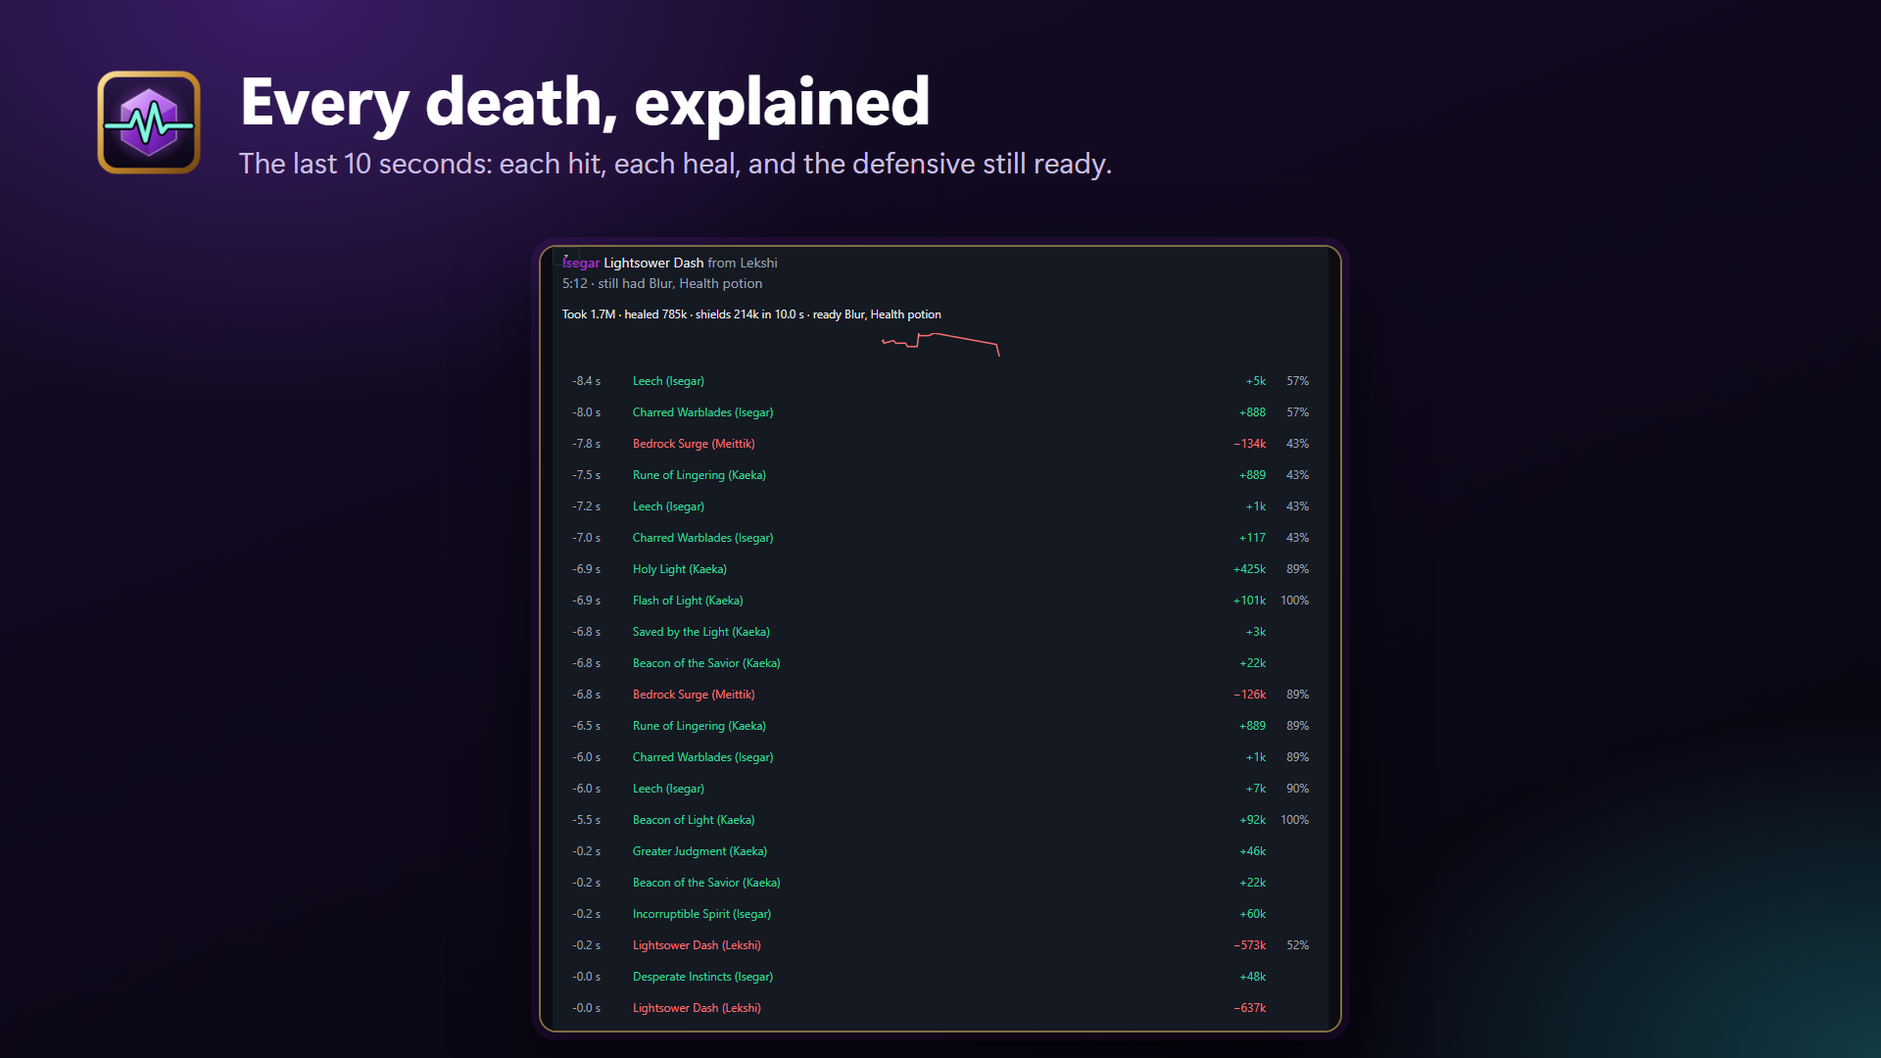
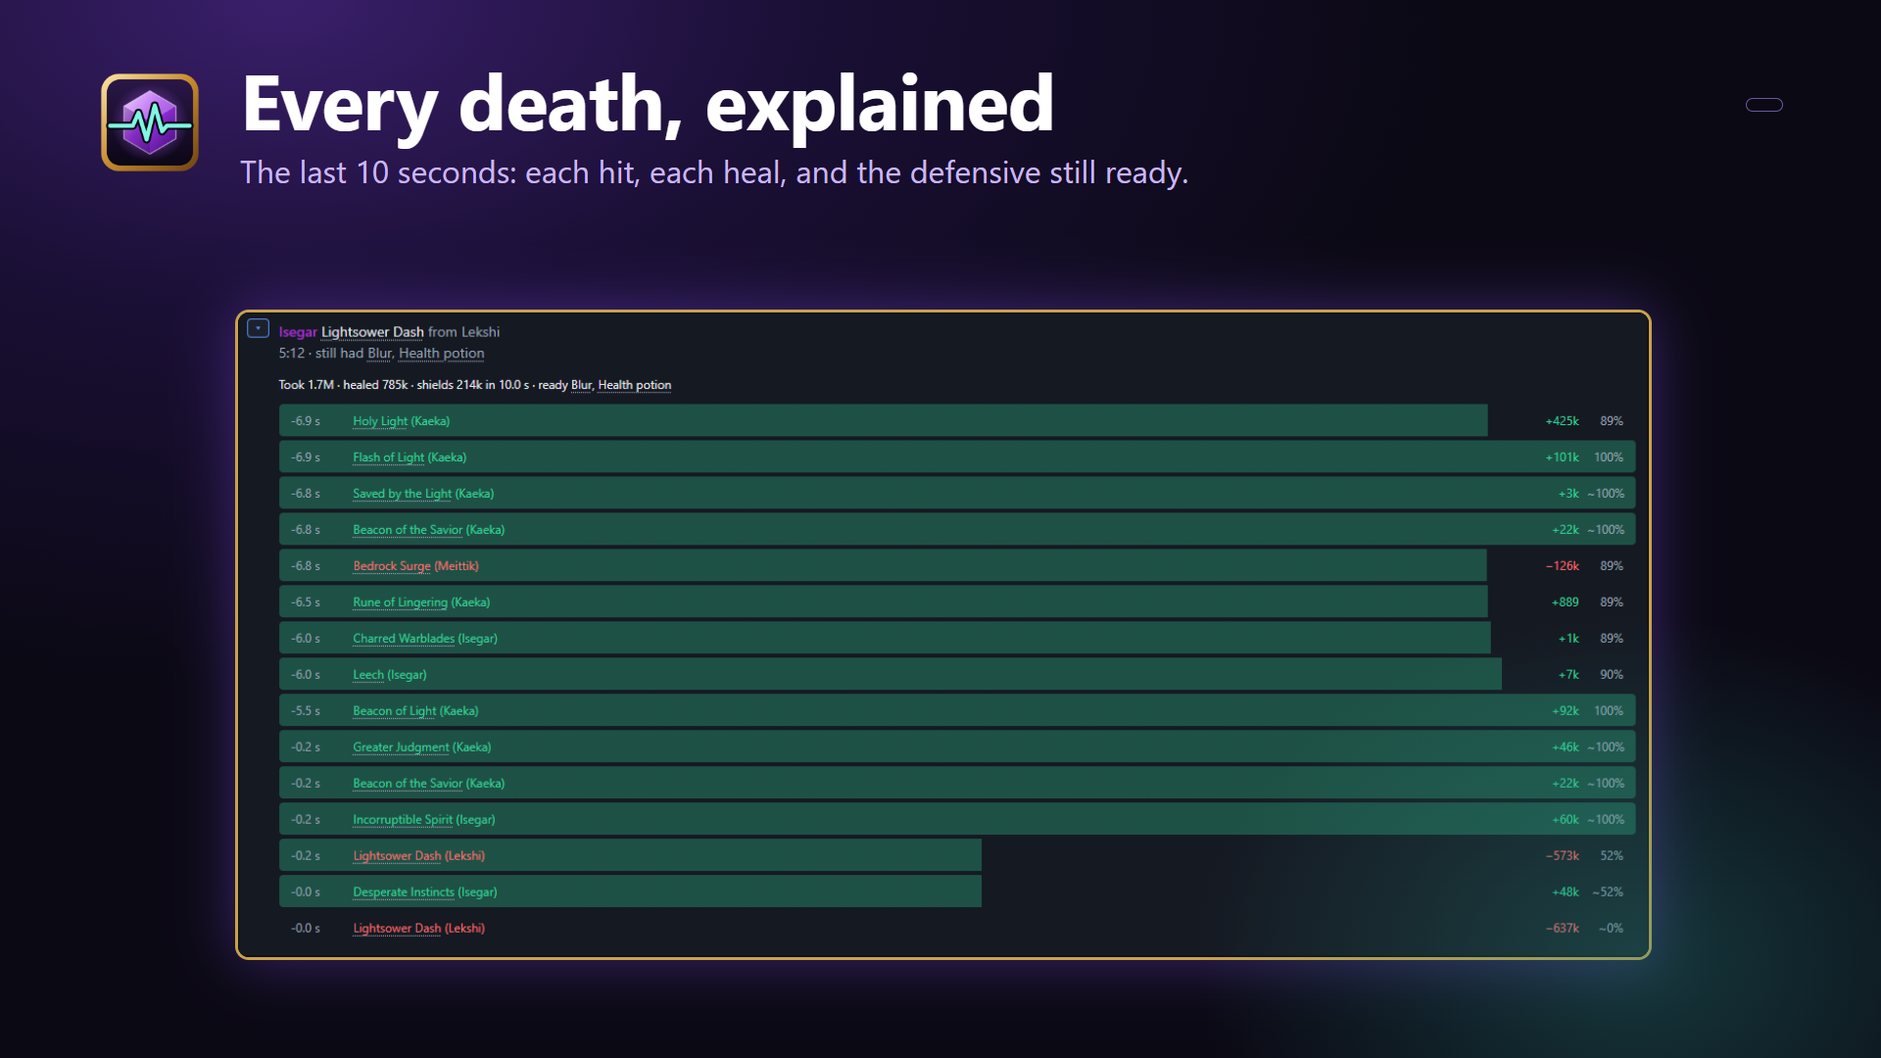
Rewrite the Store listing, add a Compare screenshot and video scripts
The listing was long and stale (0.4.7). It now leads with death recaps and the
comparison with top runs. The privacy policy missed wow.zamimg.com and
api.github.com, and the README claimed the page credits its data sources while
the app showed none, so Home now carries the credits.

diff --git a/frontend/src/Home.tsx b/frontend/src/Home.tsx
@@ -55,6 +55,11 @@ export function Home({
         <QuickLinks character={character} {...actions} />
         <AtAGlance character={character} />
         <StoragePanel view={view} onSaved={onSaved} />
+        <p className="muted small">
+          World of Warcraft is a trademark of Blizzard Entertainment; WoW Live isn&apos;t affiliated with Blizzard. Maps
+          and patrols: Keystone.guru. Routes and enemies: Mythic Dungeon Tools. Raid maps and top runs: Warcraft Logs.
+          Timers: Raider.IO. Spell text and icons: Wowhead.
+        </p>
       </div>
     </>
   )

diff --git a/docs/store-listing.md b/docs/store-listing.md
@@ -1,85 +1,82 @@
 # Microsoft Store listing
 
 The text and images for the Store page (Partner Center > WoW Live > Store listings > English). This file is the one
-source of truth for them: change it here, then paste into Partner Center with the next submission. Matches 0.4.7.
+source of truth for them: change it here, then paste into Partner Center with the next submission. The video scripts
+are in [video-script.md](video-script.md).
 
 Rules for the copy: lead with what the player gets, not how it works; say "M+" and "raid" in the first two lines
-(that's all the page shows before *Read more*); no Blizzard logos, art or class icons; no claim the app doesn't make.
+(that's all the page shows before *Read more*); one idea a line, no feature the page can't show in a screenshot; no
+claim the app doesn't make; no Blizzard logos, art or class icons in the listing's own images.
 
 ## Short description (top of the page)
 
-Know why your key depleted. WoW Live times your Mythic+ keys and raid pulls live from the combat log, then shows
-every death, every missed kick and what to fix before the next pull. Free, no addon, nothing uploaded.
+Know why your key depleted. WoW Live reads your combat log live: the M+ timer, every death explained and how you
+compare with the top runs, then what to fix before the next pull. Free, no addon, your log stays on your PC.
 
 ## Description
 
 Know why your key depleted, and why the raid wiped.
 
-WoW Live reads World of Warcraft's combat log as you play and turns it into answers: a live M+ timer and forces
-overlay, every death with what killed the player and the defensive they didn't press, and a short "fix next pull"
-list after every key and every raid pull. No addon to install, nothing to upload, no waiting for a log to process.
+WoW Live reads World of Warcraft's combat log while you play and tells you what happened: a live M+ timer, every
+death explained, and a short "fix next pull" list after every key and raid pull. No addon, no upload, no waiting for
+a log to process.
 
-MYTHIC+, LIVE
-• The clock against the timer with the +2 and +3 marks, death penalty included, and enemy forces.
-• The result you're heading for, with the odds of each, from your own runs and the top runs on Warcraft Logs.
-• The must-stop casts that went off, deaths, interrupts, dispels and DPS / HPS for the last pull and the whole key.
-• An overlay over the game that fits its window: the two cards and the columns you pick. Click a player for their
-  top spells and damage into each enemy, or let clicks through to the game with Ctrl+Alt+K.
+DURING THE KEY
+• The clock against the +2 and +3 marks and enemy forces, with the result you're heading for and the odds of each.
+• Must-stop casts that went off, deaths, interrupts, dispels and DPS / HPS for the last pull and the whole key.
+• An overlay right over the game. Press Ctrl+Alt+K to let clicks through to it.
 
 AFTER EVERY KEY
-• Each player against their spec's top runs on Warcraft Logs: DPS, kicks, deaths with a defensive ready, potions at
-  Bloodlust, with up to four things to work on and one done well.
-• Every death and big hit, recapped: the last 10 seconds of health, each hit and who cast it, the heals and shields
-  received and the buttons pressed.
-• Damage spikes that name what hit the party, and a "Fix next key" list: late priority targets, missed kicks,
-  Bloodlusts and deaths that cost the timer.
-• A replay on the dungeon's map with a timeline of pulls, deaths, Bloodlust and cooldowns, synced to the meters.
-• A full review page with a tab per player, deaths, events and a comparison against the top logs.
-• Routes: import a Mythic Dungeon Tools route, edit it with mob health at your key level, draw lines, markers and
-  notes on the map, follow it live and see which pulls you skipped.
+• Death recaps: the last 10 seconds before each death, with every hit, heal and shield, and the defensive that was
+  still ready.
+• See how you compare: each player against the top runs of their spec on Warcraft Logs (DPS, kicks, deaths, potions,
+  buffs, talents), with up to four things to work on.
+• A "Fix next key" list and a timeline of every pull, death, Bloodlust and cooldown.
+• A replay on the dungeon's map, synced to the meters.
+• Routes: import a Mythic Dungeon Tools route and see which pulls you skipped.
 
 RAID
-• After each pull: how far it got, the early deaths and why, and what went wrong by mechanic (soaks, tethers, adds,
-  dispels, avoidable hits), with a short list of what to fix on the next pull.
-• A replay of the pull on the room's map, raid cooldowns and potions, missing flasks, food and Vantus Runes.
+• After each pull: how far it got, the early deaths and why, and what failed by mechanic (soaks, tethers, adds,
+  dispels, avoidable hits), with what to fix next pull.
+• A replay on the room's map, plus missing flasks, food and Vantus Runes.
 
 YOUR SEASON
-• A Recap for each of your characters, Mythic+ and Raid apart: keys timed, highest key, your fastest and closest
-  runs, the ability that kills you most, who you ran with, your times against the top runs and your Warcraft Logs
-  parses.
-• Read your old combat logs, or import keys and raid pulls from Warcraft Logs, and they're all saved.
+• A Recap per character: keys timed, your fastest and closest runs, the ability that kills you most, who you ran
+  with and your Warcraft Logs parses. Read your old logs or import from Warcraft Logs.
 
-PRIVATE AND SAFE
+PRIVATE
 It isn't an addon and doesn't touch the game: it only reads the log file the game writes on your PC. No account, no
-ads, no tracking, and your combat log never leaves your PC.
+ads, no tracking. Your combat log never leaves your PC; only a character name you ask it to look up goes to Warcraft
+Logs.
 
-GET STARTED IN A MINUTE
+START IN A MINUTE
 1. In the game, turn on Advanced Combat Logging (Options > System > Network).
 2. Type /combatlog before the key or the pull.
 3. Play in Windowed or Windowed (Fullscreen) so the overlay shows over the game.
 Optional: add a free Warcraft Logs API client in Settings for the comparison with top runs.
 
-WoW Live is free. Questions and bugs: github.com/steezy2/wow-live-app
+WoW Live is free. Its source is public for noncommercial use (PolyForm Noncommercial 1.0.0). Questions and bugs:
+github.com/steezy2/wow-live-app
 
-World of Warcraft is a trademark of Blizzard Entertainment. WoW Live isn't affiliated with or endorsed by Blizzard.
-Dungeon maps are Keystone.guru's and raid maps Warcraft Logs'.
+World of Warcraft is a trademark of Blizzard Entertainment. WoW Live isn't affiliated with or endorsed by Blizzard,
+and the game's spell names, text and icons belong to Blizzard. Dungeon maps and patrols are Keystone.guru's, routes
+and enemies Mythic Dungeon Tools', raid maps and top runs Warcraft Logs', season timers Raider.IO's and spell text
+and icons Wowhead's.
 
 ## Product features (up to 20, shown as a list)
 
-1. Live Mythic+ timer with +2 and +3 marks and enemy forces
-2. Overlay over the game that fits its window, with the cards and columns you pick
-3. Every death and big hit recapped: the last 10 seconds of hits, heals and buttons pressed
-4. Must-stop casts that went off, interrupts, dispels and crowd control
-5. DPS, HPS and avoidable damage for the last pull and the whole key
-6. Review of each player against the top runs of their spec on Warcraft Logs
-7. A "fix next pull" list after every key and raid pull
-8. Damage spikes that name the abilities and enemies behind them
-9. Replay on the dungeon's map with a timeline of pulls, deaths and cooldowns
-10. Raid pulls: how far it got, early deaths and mechanics failed, by raider
-11. A Recap of your season per character, Mythic+ and Raid apart, with your parses
-12. Reads old combat logs and imports from Warcraft Logs
-13. Routes: import a Mythic Dungeon Tools route, edit and draw on it, follow it live and compare it with the key
-14. No addon, no upload of your combat log
+1. Live Mythic+ timer with +2 and +3 marks, enemy forces and the odds of each result
+2. Overlay over the game that fits its window
+3. Every death recapped: the last 10 seconds of hits, heals and the defensive still ready
+4. See how you compare: each player against the top runs of their spec on Warcraft Logs
+5. A "fix next pull" list after every key and raid pull
+6. Must-stop casts that went off, interrupts, dispels and avoidable damage
+7. Replay on the dungeon's map with a timeline of pulls, deaths and cooldowns
+8. Raid pulls: how far it got, early deaths and mechanics failed
+9. Season Recap per character, with your parses
+10. Routes: import a Mythic Dungeon Tools route and follow it live
+11. Reads old combat logs and imports from Warcraft Logs
+12. No addon, no account, your combat log never leaves your PC
 
 ## Search terms (up to 7)
 
@@ -94,19 +91,39 @@ the search terms and the first two lines matter more than the category.
 
 `docs/store/` holds what Partner Center takes, made from real screens of real keys and pulls with made-up names,
 each under a one-line headline baked into the image (gamers skim the images, not the text). The first three show on
-the page, so the order is what sells.
+the page, so the order is what sells: the live key (the hook), a death explained (the pain) and the comparison (the
+payoff). Each screen shows one thing, large; crop to it rather than showing a whole page.
 
-| File | Headline | Screen |
-|---|---|---|
-| `1-live.png` | Your Mythic+ key, live | The live page mid-key with the overlay over it |
-| `2-key.png` | Know why your key depleted | A key's Fix next key list and Timeline |
-| `3-raid.png` | Fix the wipe before the next pull | A raid pull's Fix next pull, early deaths and mechanics |
-| `4-death.png` | Every death, explained | A death recap's last 10 seconds |
-| `5-replay.png` | Replay the key on the map | The map replay |
-| `6-recap.png` | Your whole season | The Recap's Mythic+ tab |
+| # | File | Headline | Screen | Status |
+|---|---|---|---|---|
+| 1 | `1-live.png` | Your Mythic+ key, live | Live page mid-key with the overlay over it | Made |
+| 2 | `4-death.png` | Every death, explained | A death recap: the health graph large over the hits and heals, the ready defensive named | Made (the last 10 seconds, health falling to 0%) |
+| 3 | `compare.png` | See how you stack up | Compare tab: verdict, the "work on" list, key stats and abilities against the top logs | Made, sample data |
+| 4 | `2-key.png` | Know why your key depleted | Fix next key and Timeline | Made |
+| 5 | `3-raid.png` | Fix the wipe before the next pull | A raid pull's Fix next pull and early deaths | Made |
+| 6 | `5-replay.png` | Replay the key on the map | The map replay | Made |
+| 7 | `6-recap.png` | Your whole season | The Recap's Mythic+ tab | Made |
+
+The comparison screenshot uses sample numbers, not a real review (the owner's choice); the names are made up too, and
+the image carries a small "sample data" mark. Keep it to the values a real review shows. The talent tree shows
+Blizzard's icons, so the Store image leaves the tree out.
 
 Also in `docs/store/`: `poster.png` (9:16 poster art, 720 × 1080, the main logo on Windows), `box.png` (1:1 box
 art, 1080 × 1080), `hero.png` (16:9 super hero art, 1920 × 1080, which must not show the product title) and
 `logo.png` (300 × 300 app tile icon), so the page doesn't fall back to the package's small logo. The README shows the
 same screenshots. To make them again: replay a key with `go run ./cmd/site --replay`, capture at 1920 × 1080 with the
-names swapped for made-up ones, and put a headline over each.
+names swapped for made-up ones, and put a headline over each (headless Edge over the DevTools protocol did the
+death and compare shots: made-up names swapped in the page's text, the sample review answering the compare
+request, then the crop framed under the headline). A trailer from the video script goes in Partner
+Center's *Trailers* (1920 × 1080 MP4, with a 1920 × 1080 thumbnail).
+
+## Before each submission
+
+- Privacy policy URL: `https://github.com/steezy2/wow-live-app/blob/main/PRIVACY.md`. It lists every host the app
+  calls (checked against the code on 2026-11-16: Warcraft Logs, Raider.IO, Keystone.guru and MDT through GitHub,
+  Wowhead and its icon host); add a new host there in the same change.
+- The manifest asks only for `internetClient` and `runFullTrust` (a desktop app). Don't add a capability the app
+  doesn't use.
+- Licence: PolyForm Noncommercial 1.0.0 for the source; the Store copy is free. The credits above must match the
+  Home tab's credit line and the README.
+- Age rating: no user-generated content, no purchases, no ads.

diff --git a/docs/video-script.md b/docs/video-script.md
@@ -1,0 +1,48 @@
+# Video scripts
+
+Two videos to record later: a 50 second trailer for the Store page and a 3 minute walkthrough for YouTube and Reddit.
+Record at 1920 × 1080, 30 fps, from a replay of a real key (`go run ./cmd/site --replay PATH --key 2 --speed 30`, or
+the app on a real night) with made-up names, as the screenshots do. Use the app's dark theme. No Blizzard footage,
+logos or music; use royalty-free music or none. A voice-over reads the lines in **bold**; on-screen text is in
+*italics*. Replace "free" claims only if the price changes.
+
+## Trailer (50 s, Store page)
+
+The Store autoplays it muted, so every beat has captions and the video works without sound.
+
+| Time | Screen | Voice and caption |
+|---|---|---|
+| 0-4 | Black, then a key's timer ticking red past 30:00 | **"Your key just depleted. Why?"** *Why did it deplete?* |
+| 4-10 | The live page mid-key, overlay over the game | **"WoW Live reads your combat log as you play."** *Live timer, forces, odds* |
+| 10-18 | Click a death: the last 10 seconds, health graph, hits, the ready defensive highlighted | **"Every death explained: the hit, the heal, the defensive you didn't press."** *Every death, explained* |
+| 18-26 | Compare tab: you against the top logs, bars and the "work on" list | **"See how you stack up against the top runs of your spec."** *Compare with the top runs* (sample data) |
+| 26-32 | Fix next key list, then the Timeline scrubbing | **"Then a short list of what to fix next key."** *Fix next key* |
+| 32-38 | Raid pull: early deaths and mechanics failed | **"Raiding? The same for every pull."** *Fix the wipe before the next pull* |
+| 38-43 | Map replay, scrubbing the timeline | **"Replay it on the map."** *Replay the key* |
+| 43-50 | Logo, "Free on the Microsoft Store", the three setup steps as captions | **"Free. No addon. Your log never leaves your PC."** *Free · No addon · Private* |
+
+Notes: the first 4 seconds decide whether anyone stays, so open on the pain, not the logo. Show the app large, never a
+whole 1080p page shrunk; zoom to the part the line talks about.
+
+## Walkthrough (3 min, YouTube and Reddit)
+
+Chapters (add them to the description). The speaker is the owner, in first person.
+
+1. **0:00 Hook (15 s).** Show a depleted key. "I got tired of guessing why my keys failed, so I built an app that
+   tells me. It's free."
+2. **0:15 What it is (20 s).** It reads the combat log on your PC. Not an addon, no upload, nothing touches the game.
+   Show the Home tab and the setup guide.
+3. **0:35 Set up (25 s).** Advanced Combat Logging on, `/combatlog` before the key, Windowed mode. Optional Warcraft
+   Logs API client for the comparison, with the redirect URL and *Public Client* unchecked.
+4. **1:00 During the key (30 s).** Live page and overlay: timer, forces, the result you're heading for, must-stop
+   casts. Ctrl+Alt+K for click-through. Say the log arrives in batches, so a pull's numbers show when it ends.
+5. **1:30 After the key (50 s).** Fix next key, then open a death: the last 10 seconds. Then the Compare tab: how a
+   player's DPS, kicks and deaths sit against the top logs, and the "work on" list. Then the replay on the map and
+   the Timeline.
+6. **2:20 Raid (20 s).** A pull's early deaths, mechanics failed and Fix next pull.
+7. **2:40 Your season and close (20 s).** The Recap, Read old logs, then where to get it: "Free on the Microsoft
+   Store; source and bugs on GitHub (steezy2/wow-live-app)." Ask for feedback and say what's next.
+
+Checklist before recording: names made up in every shot (players, guild, realm); no Warcraft Logs keys on screen;
+Settings closed when the secret is visible; close other windows; the overlay over a neutral, non-Blizzard backdrop
+or a plain window.

diff --git a/README.md b/README.md
@@ -15,13 +15,15 @@ It's not an addon and doesn't touch the game: it only reads the combat log file 
 
 ![A death's last 10 seconds: each hit, each heal and the defensive still ready](docs/store/4-death.png)
 
+![A player's run against the top logs of their spec, with what to work on (sample data)](docs/store/compare.png)
+
 ![The key replayed on the dungeon's map](docs/store/5-replay.png)
 
 ![The Recap: keys timed, each dungeon's best time and who you ran with](docs/store/6-recap.png)
 
 </details>
 
-*Screenshots from a replay of a real key, with the players' names made up.*
+*Screenshots from a replay of a real key, with the players' names made up (the comparison uses sample numbers).*
 
 ## Install
 
@@ -64,7 +66,7 @@ Settings, saved keys and raid pulls, and the log are in the Store package's own 
 - **Releases:** a `v*` tag packs `WoW Live.msix` (`backend/cmd/app/msix/pack.sh`) on GitHub Actions, with the identity from Partner Center's *Product identity* page in the repo's `MSIX_NAME`, `MSIX_PUBLISHER` and `MSIX_PUBLISHER_NAME` variables, keeps it on a release here and submits it to the Microsoft Store, which signs it (the `store` job, once the repo's `STORE_PRODUCT_ID` variable and the Entra secrets are set; it submits without an approval step, and fails while a submission made by hand in Partner Center is in progress).
 - **Icon:** `backend/cmd/appicon/icon.svg` (and `icon-small.svg` under 48 px), rendered to the committed PNGs by `render.sh`. Original art, no Blizzard logos.
 
-World of Warcraft is a trademark of Blizzard Entertainment; this project isn't affiliated with Blizzard. Dungeon maps are Keystone.guru's and raid maps Warcraft Logs', credited on the page.
+World of Warcraft is a trademark of Blizzard Entertainment; this project isn't affiliated with Blizzard, and the game's spell and talent icons, names and text it shows belong to Blizzard. Dungeon maps and patrols are Keystone.guru's, routes and enemy data Mythic Dungeon Tools', raid maps Warcraft Logs', season timers Raider.IO's and spell text and icons Wowhead's; the app downloads them for you and credits them on the Home tab.
 
 ## Licence
 

diff --git a/PRIVACY.md b/PRIVACY.md
@@ -1,6 +1,6 @@
 # WoW Live privacy policy
 
-Last updated: November 13, 2026
+Last updated: November 16, 2026
 
 WoW Live runs on your PC and has no accounts, analytics, ads or tracking. The developer receives no data from it.
 
@@ -16,8 +16,8 @@ WoW Live downloads public game data. None of these requests include anything fro
 
 - **Warcraft Logs** (warcraftlogs.com), when you've entered API keys: top runs for a dungeon, key level and spec to compare against, and the name and realm of a character, to list its public reports and download their fights (when you import or look up your own runs) or to read its parses (when you run a player review, for the player you picked, who can be anyone in your group). See Warcraft Logs' own privacy policy.
 - **Raider.IO** (raider.io): the season's dungeon timers and this week's affixes, for your region.
-- **Keystone.guru**, through GitHub (raw.githubusercontent.com) and assets.keystone.guru: dungeon map images.
-- **Wowhead** (nether.wowhead.com): the text of a spell, when you hover its name.
+- **Keystone.guru** and **Mythic Dungeon Tools**, through GitHub (api.github.com, raw.githubusercontent.com) and assets.keystone.guru: dungeon map images, enemy patrols and each dungeon's enemies and routes.
+- **Wowhead** (nether.wowhead.com and wow.zamimg.com): the text of a spell when you hover its name, and the icons of talents and spells.
 - **Warcraft Logs' image server** (assets.rpglogs.com): raid room map images, for the raid replay.
 
 As with any web request, those sites can see your IP address. Each request names WoW Live and its GitHub page.

diff --git a/CHANGELOG.md b/CHANGELOG.md
@@ -4,6 +4,13 @@ What changed, newest first. Each PR adds its lines under `[Unreleased]`.
 
 ## [Unreleased]
 
+### Changed
+- **Store listing rewritten** shorter, with a new Compare screenshot (sample data) and a death recap showing health falling to 0%, leading with death recaps and the comparison with top runs; `docs/video-script.md` has a 50 s trailer and a 3 min walkthrough script.
+- **Credits**: the Home tab now carries the Blizzard disclaimer and credits for Keystone.guru, Mythic Dungeon Tools, Warcraft Logs, Raider.IO and Wowhead (the README said the page credited them); the Store manifest's description mentions raid pulls.
+
+### Fixed
+- **Privacy policy** lists the two hosts it missed: `wow.zamimg.com` (spell and talent icons) and `api.github.com` (Mythic Dungeon Tools' data).
+
 ## [0.5.1] - 2026-11-16
 
 ### Changed
